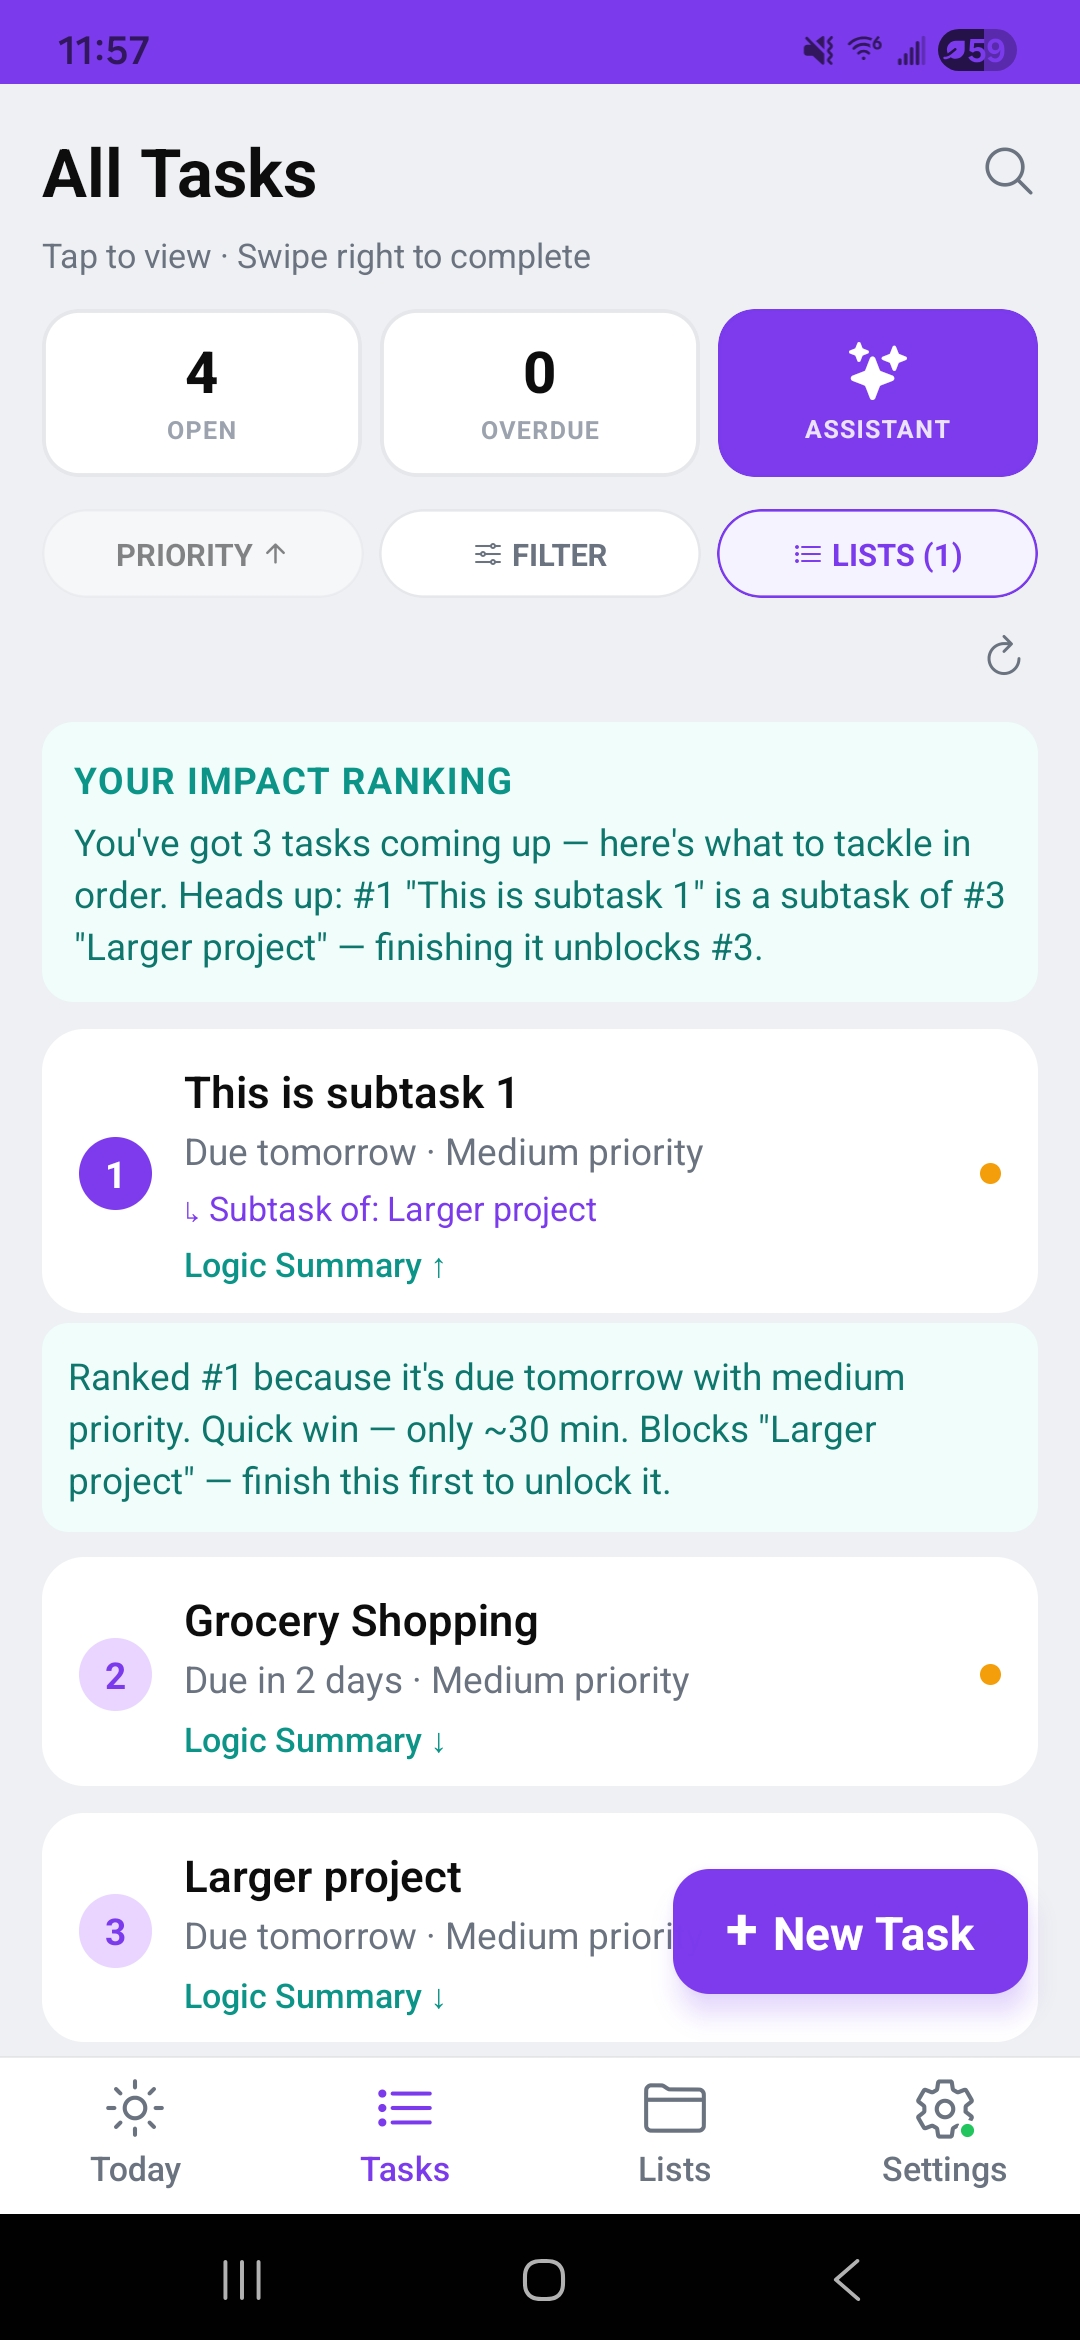
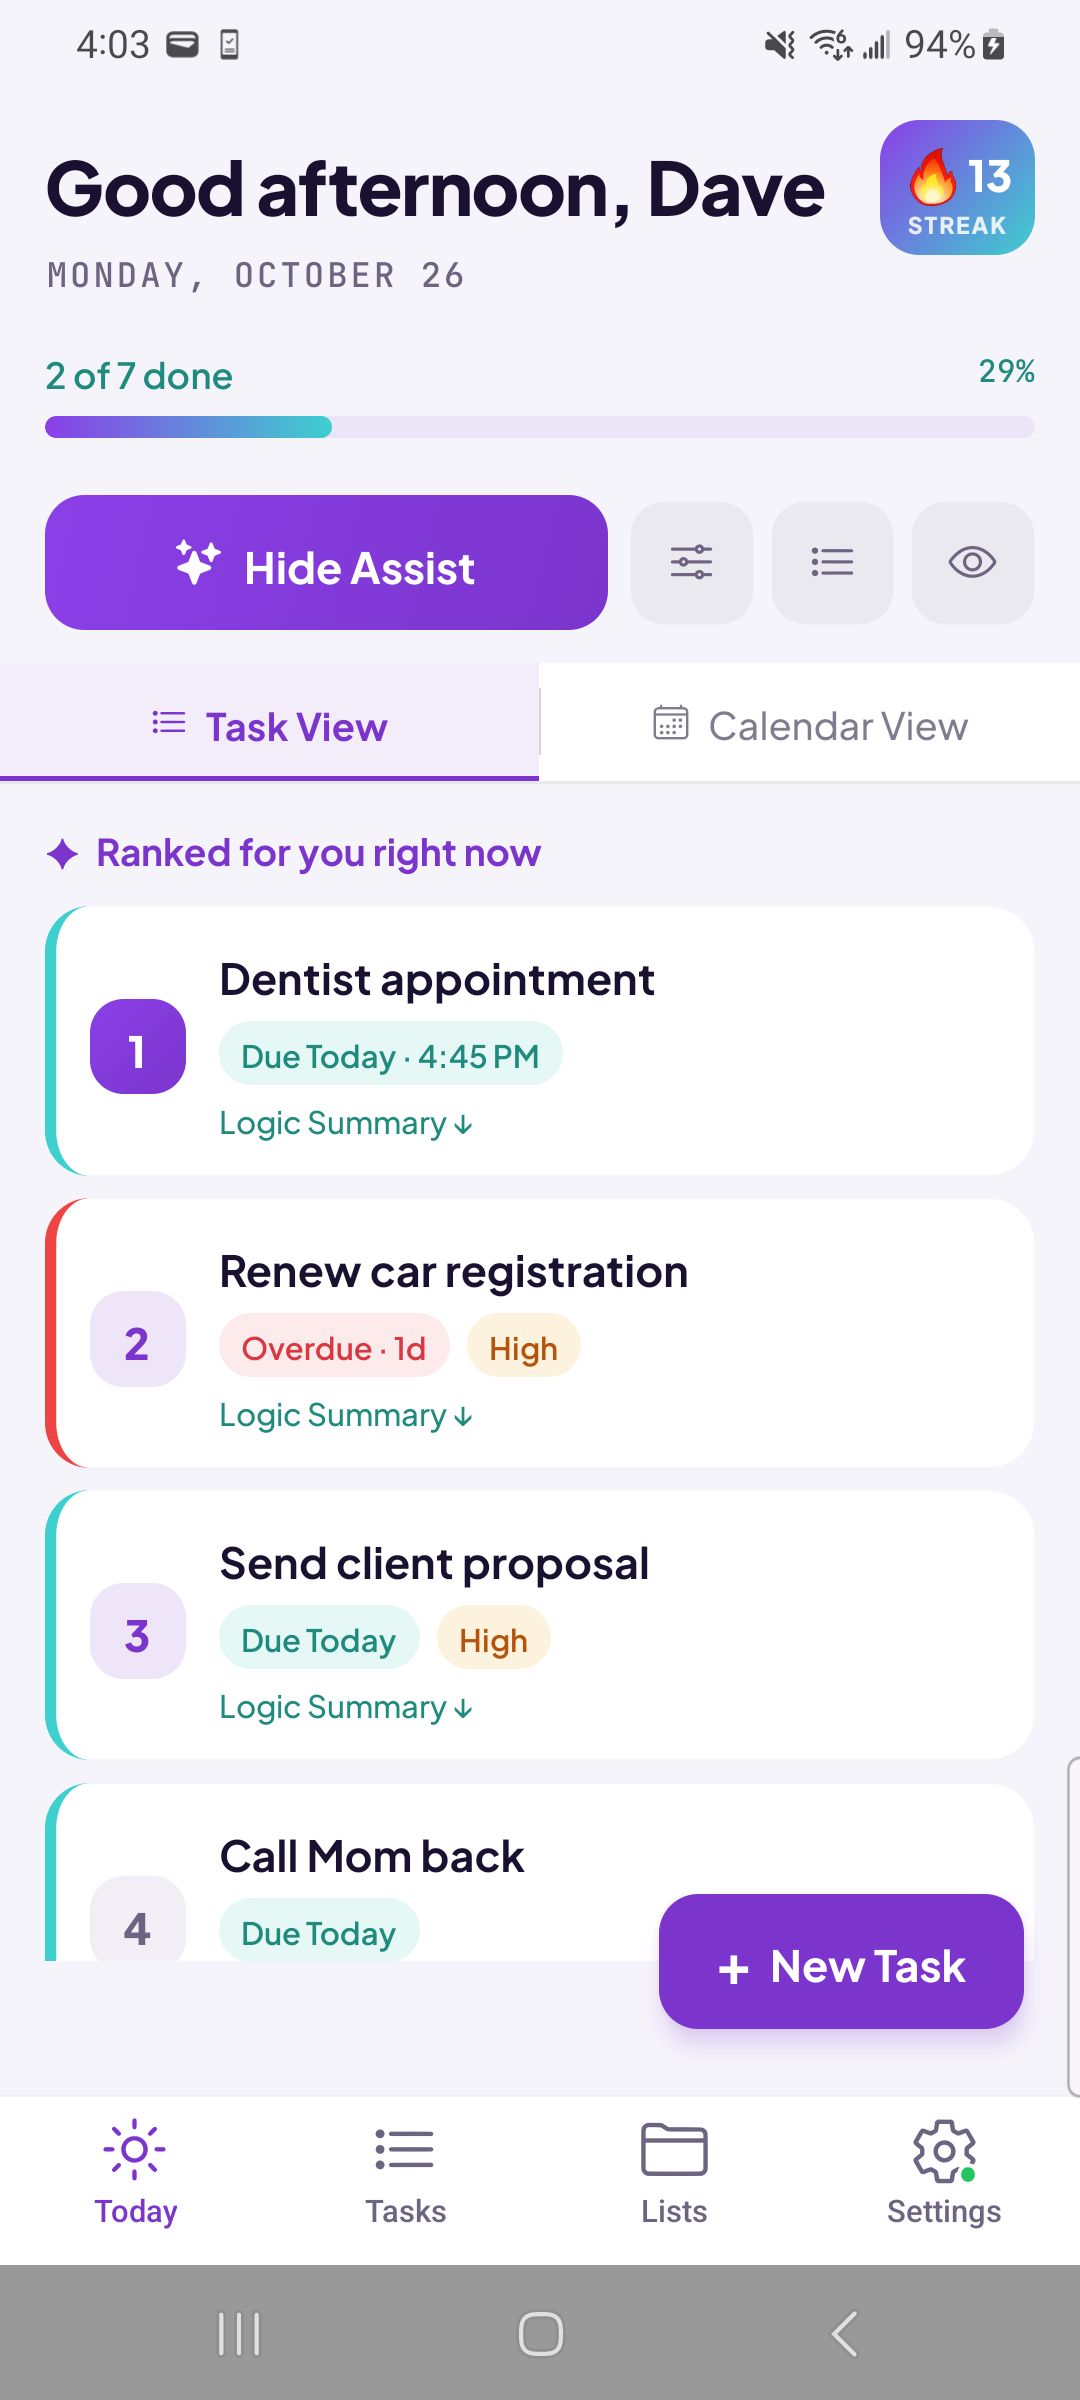
Add files via upload

diff --git a/index.html b/index.html
@@ -2,7 +2,7 @@
 <html lang="en">
 <head>
   <meta charset="UTF-8" />
-  <meta name="viewport" content="width=device-width, initial-scale=1.0, minimum-scale=0.5" />
+  <meta name="viewport" content="width=device-width, initial-scale=1.0, viewport-fit=cover" />
   <title>Do more, with DaiLY</title>
   <!-- Favicon -->
   <link rel="icon" type="image/png" href="app-icon.png" />
@@ -24,8 +24,11 @@
   <meta name="twitter:image" content="https://leone-labs.com/screenshot-splash.png" />
   <style>
     *, *::before, *::after { box-sizing: border-box; margin: 0; padding: 0; }
-    html { scroll-behavior: smooth; }
-    body { font-family: -apple-system, BlinkMacSystemFont, 'Segoe UI', system-ui, sans-serif; background: #08080F; color: #fff; line-height: 1.6; overflow-x: hidden; }
+    html { scroll-behavior: smooth; overflow-x: hidden; overflow-x: clip; max-width: 100%; -webkit-text-size-adjust: 100%; }
+    html, body { width: 100%; }
+    img, svg { max-width: 100%; }
+    #hero, #priority, #final-cta, footer { overflow: hidden; overflow: clip; }
+    body { font-family: -apple-system, BlinkMacSystemFont, 'Segoe UI', system-ui, sans-serif; background: #08080F; color: #fff; line-height: 1.6; overflow-x: hidden; overflow-x: clip; position: relative; }
     :root {
       --purple: #7B35CC; --purple-b: #9B55EC;
       --purple-glow: rgba(123,53,204,0.35);
@@ -312,6 +315,8 @@
       .btn-hero { width: 100%; max-width: 260px; justify-content: center; font-size: 15px; padding: 14px 24px; }
       .btn-final { width: 100%; max-width: 280px; justify-content: center; font-size: 15px; padding: 14px 24px; }
       h1 { font-size: clamp(2rem, 8vw, 3rem); }
+      .eyebrow { white-space: normal; max-width: 100%; text-align: center; line-height: 1.4; }
+      .phone-row { max-width: 100%; }
       .phone.center { width: 220px; }
       nav { padding: 0 14px; }
       .nav-cta { padding: 8px 16px; font-size: 12.5px; }
@@ -530,7 +535,7 @@
     <div class="phone side tilt-r">
       <div class="phone-notch"></div>
       <div class="phone-screen">
-        <img src="screenshot-tasks.png" alt="DaiLY All Tasks view"
+        <img src="screenshot-calendar-fit.png" alt="DaiLY fitting tasks into free gaps in your calendar"
              onerror="this.style.display='none'" />
         <div class="phone-placeholder">
           <div class="phone-placeholder-inner">
@@ -549,6 +554,7 @@
     <span class="lbl fade-up">Priority Assistant</span>
     <h2 class="fade-up d1">Stop guessing.<br><span class="gt">Start finishing.</span></h2>
     <p class="body-text fade-up d2" style="max-width:720px;margin:0 auto 20px;">DaiLY's Priority Assistant, a proprietary next-gen prioritization engine, ranks your entire day, weighing urgency, priority, task dependencies and estimated effort, then hands you one clear order of what to do next. And it's not a black box: tap any task and it <strong style="color:#fff;">explains exactly why</strong> it ranks where it does.</p>
+    <p class="body-text fade-up d2" style="max-width:720px;margin:0 auto 20px;"><strong style="color:#fff;">It plans around your real schedule.</strong> Connect your calendar and the Priority Assistant sees your meetings and appointments, then fits your tasks into the free time you actually have. You can also import calendar events as tasks, so everything lives in one ranked list.</p>
     <p class="body-text fade-up d2" style="max-width:720px;margin:0 auto 40px;font-size:0.95rem;color:var(--t3);">🔒 The ranking runs <strong style="color:var(--teal);">entirely on your phone</strong>. Your tasks are never shipped to a cloud AI, and consent is yours to review or revoke anytime.</p>
     <!-- weight chips -->
     <div class="fade-up d2" style="display:flex;flex-wrap:wrap;gap:10px;justify-content:center;max-width:640px;margin:0 auto 8px;">
@@ -556,6 +562,7 @@
       <div class="chip"><div class="chip-title">Priority · 35%</div><div class="chip-desc">What you flagged as important</div></div>
       <div class="chip t"><div class="chip-title">Dependencies · 10%</div><div class="chip-desc">What unlocks other tasks</div></div>
       <div class="chip t"><div class="chip-title">+ Effort</div><div class="chip-desc">Estimated time to finish</div></div>
+      <div class="chip"><div class="chip-title">+ Your calendar</div><div class="chip-desc">Fits tasks around your schedule</div></div>
     </div>
     <!-- single priority phone -->
     <div class="phone-vis fade-up d3" style="margin-top:12px;">
@@ -563,7 +570,7 @@
       <div class="phone center" style="position:relative;z-index:1;">
         <div class="phone-notch"></div>
         <div class="phone-screen">
-          <img src="screenshot-priority.png" alt="Priority Assist screen"
+          <img src="screenshot-priority-why.png" alt="Priority Assistant explaining why a task is ranked #1"
                onerror="this.style.display='none'" />
           <div class="phone-placeholder">
             <div class="phone-placeholder-inner">
@@ -721,7 +728,7 @@
       <div class="feat-card fade-up">
         <div class="feat-icon"><svg width="22" height="22" viewBox="0 0 24 24" fill="none"><path d="M13 2L3 14h9l-1 8 10-12h-9l1-8z" fill="rgba(123,53,204,0.4)" stroke="#9B55EC" stroke-width="1.5" stroke-linejoin="round"/></svg></div>
         <h3>Explainable Priority Assistant</h3>
-        <p>Ranks your whole day by urgency, priority, dependencies and effort, then tells you exactly why each task is next.</p>
+        <p>Ranks your whole day by urgency, priority, dependencies and effort, fits it around your calendar, then tells you exactly why each task is next.</p>
       </div>
       <div class="feat-card fade-up d1">
         <div class="feat-icon t"><svg width="22" height="22" viewBox="0 0 24 24" fill="none"><path d="M21 10c0 6-9 12-9 12s-9-6-9-12a9 9 0 0 1 18 0z" stroke="#3ECFCF" stroke-width="1.5" stroke-linejoin="round"/><circle cx="12" cy="10" r="2.5" stroke="#3ECFCF" stroke-width="1.5"/></svg></div>
@@ -735,8 +742,8 @@
       </div>
       <div class="feat-card fade-up d3">
         <div class="feat-icon t"><svg width="22" height="22" viewBox="0 0 24 24" fill="none"><path d="M12 2l8 4v6c0 5-3.5 8.5-8 10-4.5-1.5-8-5-8-10V6l8-4z" stroke="#3ECFCF" stroke-width="1.5" stroke-linejoin="round"/><path d="M9 12l2 2 4-4" stroke="#3ECFCF" stroke-width="1.5" stroke-linecap="round" stroke-linejoin="round"/></svg></div>
-        <h3>No Data Theft &amp; Private</h3>
-        <p>On-device logic engine. No data stolen to train AI, biometric lock, no ads and no data resale, ever.</p>
+        <h3>Offline-first &amp; Private</h3>
+        <p>Opens instantly with zero network. On-device AI, biometric lock, no ads and no data resale, ever.</p>
       </div>
       <div class="feat-card fade-up d4">
         <div class="feat-icon"><svg width="22" height="22" viewBox="0 0 24 24" fill="none"><path d="M17 21v-2a4 4 0 0 0-4-4H5a4 4 0 0 0-4 4v2" stroke="#9B55EC" stroke-width="1.5"/><circle cx="9" cy="7" r="4" stroke="#9B55EC" stroke-width="1.5"/><path d="M23 21v-2a4 4 0 0 0-3-3.87M16 3.13a4 4 0 0 1 0 7.75" stroke="#9B55EC" stroke-width="1.5" opacity="0.5"/></svg></div>
@@ -809,7 +816,7 @@
       <div class="footer-logo">
         <span style="font-size:15px;font-weight:700;color:#fff;letter-spacing:-0.02em;">DaiLY</span>
       </div>
-      <p class="footer-tagline">The smart task app that ranks your day and tells you why. Built by Leone Labs for people who want their day already sorted.</p>
+      <p class="footer-tagline">The AI-assisted task app that ranks your day and tells you why. Built by Leone Labs for people who want their day already sorted.</p>
     </div>
     <div class="footer-links">
       <div class="footer-col">
